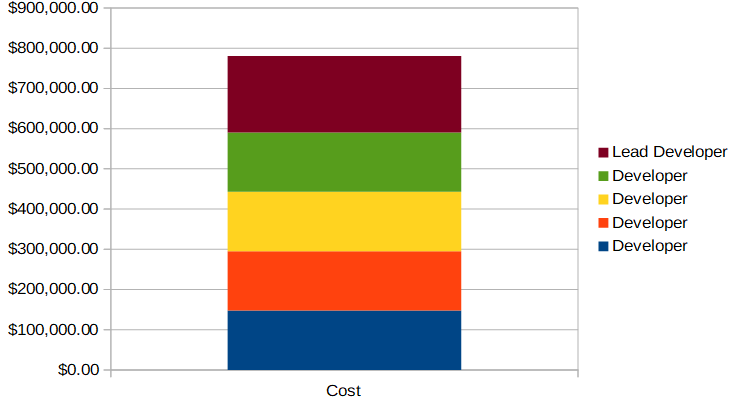
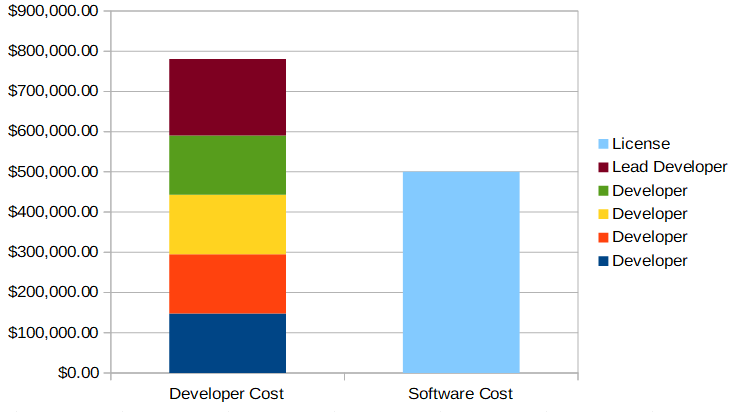
Publish of Github pages from Gradle.

diff --git a/blog/2018/programmatically-irrational-build-v-buy-draft.html b/blog/2018/programmatically-irrational-build-v-buy-draft.html
@@ -87,7 +87,7 @@
 </div>
 <div class="imageblock">
 <div class="content">
-<img src="./images/DevCost.PNG" alt="DevCost">
+<img src="/images/DevCost.PNG" alt="DevCost">
 </div>
 </div>
 <div class="paragraph">
@@ -100,7 +100,12 @@
 <p>The Hidden Cost of Paid Software</p>
 </div>
 <div class="paragraph">
-<p>Ok so maybe I&#8217;ve given you enough to at least hear your manager out on the product from the trade show.  Hey you might even like the idea that you can just take the cost of the software off a price sheet.  Sure beats trying to estimate hours!  But now that you&#8217;ve decided to pay for software, be it in the cloud subscription or a license, is the only price the sticker price?  Probably not.  One of the most troubling criteria I have seen used to evaluate proprietary software pitch is ease of customization.  Oh you don&#8217;t like the way this works?  Well you can go in there and write the code to change it.  Developers feel right at home with this.  But did we include the hours required to customize in the original build vs buy decision?  Did we consider the cost of keeping those customizations when the product changes and evolves over time?  If you did not you maybe grossly underestimating the cost of the purchased software.</p>
+<p>Ok so maybe I&#8217;ve given you enough to at least hear your manager out on the product from the trade show.  Hey you might even like the idea that you can just take the cost of the software off a price sheet.  Sure beats trying to estimate hours!  But now that you&#8217;ve decided to pay for software, be it in the cloud subscription or a license, is the only price the sticker price?  Probably not.  One of the most troubling criteria I have seen used to evaluate proprietary software pitch is ease of customization.  Oh you don&#8217;t like the way this works?  Well you can go in there and write the code to change it.  Developers feel right at home with this.  But did we include the hours required to customize in the original build vs buy decision?  Did we consider the cost of keeping those customizations when the product changes and evolves over time?  If you did not you maybe grossly underestimating the cost of the purchased software.  Consider a $500,000 software license compared to the cost of a team of developers.  Again the customizations will be the expensive part.</p>
+</div>
+<div class="imageblock">
+<div class="content">
+<img src="/images/DevTeamCost.PNG" alt="DevTeamCost">
+</div>
 </div>
 <div class="paragraph">
 <p>In addition to that the more you pay for something the more invested we get in making sure it meets expectations.  This is similar to another of Ariely&#8217;s experiments where patients got more pain relief from expensive pain medication compared to cheap pain medication (of which both were Vitamin C tablets).  The more we invest in paid software the more effort and customization we tend to put into it to make it work.  This can create a vicious never ending cycle of paying for software then bringing in expensive consultants to make it work.  Then when the expensive consultants screw it up, we bring in more expensive consultants to fix it (I know because I&#8217;ve played that game before).  Expertise can be hard to find as well, this delays implementations for months waiting for folks to roll off projects.  One creative way companies have dealt with this is by open sourcing a community version of the product but keeping the tooling and operational aspects of the product closed.  This way at least any developer can often produce a working POC prior to deciding to pay for the software.  Then when things start to scale up the sales person gets a call.   Scaling can also lead to unpredictable costs based on how you&#8217;re paying for the software.  Is it by cpu core, machine, per request?  These can create engineering problems that you might not have with open source.  When you&#8217;re paying per request in the cloud that DDOS attack didn&#8217;t just cost you sales it increased your operational cost.</p>
